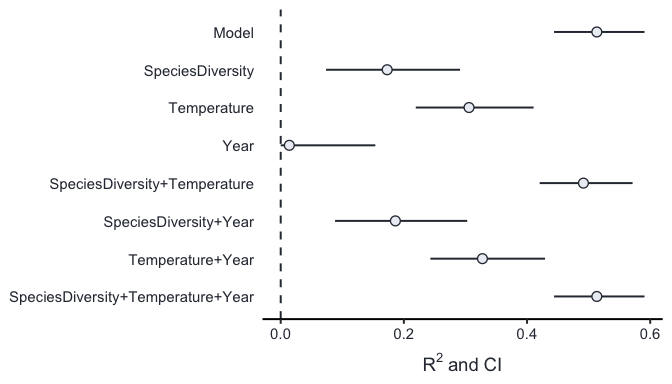
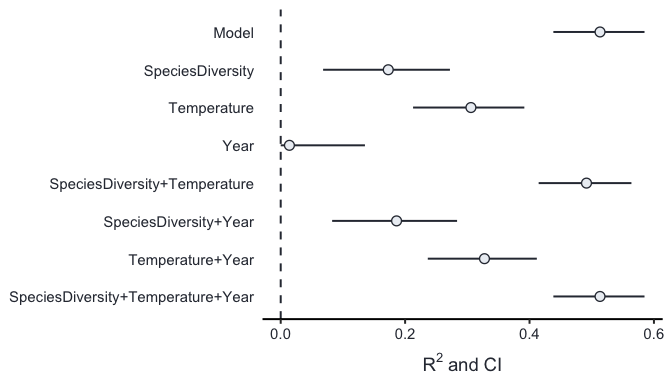
update README

diff --git a/README.md b/README.md
@@ -2,7 +2,7 @@
 <!-- badges: start -->
 
 [![CRAN total
-downloads](http://cranlogs.r-pkg.org/badges/grand-total/partR2?color=blue)](https://cran.r-project.org/package=partR2)
+downloads](https://cranlogs.r-pkg.org/badges/grand-total/partR2?color=blue)](https://cran.r-project.org/package=partR2)
 [![Monthly downloads
 badge](https://cranlogs.r-pkg.org/badges/last-month/partR2?color=blue)](https://CRAN.R-project.org/package=partR2)
 [![Lifecycle:
@@ -88,20 +88,20 @@ mod <- lmer(Biomass ~  Year + Temperature + SpeciesDiversity + (1|Population),
 #> 
 #> R2 (marginal) and 95% CI for the full model: 
 #>  R2     CI_lower CI_upper nboot ndf
-#>  0.5133 0.4439   0.5908   100   4  
+#>  0.5133 0.4383   0.5848   100   4  
 #> 
 #> ----------
 #> 
 #> Part (semi-partial) R2:
 #>  Predictor(s)                      R2     CI_lower CI_upper nboot ndf
-#>  Model                             0.5133 0.4439   0.5908   100   4  
-#>  SpeciesDiversity                  0.1729 0.0736   0.2913   100   3  
-#>  Temperature                       0.3058 0.2193   0.4106   100   3  
-#>  Year                              0.0140 0.0000   0.1537   100   3  
-#>  SpeciesDiversity+Temperature      0.4916 0.4205   0.5714   100   2  
-#>  SpeciesDiversity+Year             0.1862 0.0883   0.3029   100   2  
-#>  Temperature+Year                  0.3276 0.2430   0.4293   100   2  
-#>  SpeciesDiversity+Temperature+Year 0.5133 0.4439   0.5908   100   1
+#>  Model                             0.5133 0.4383   0.5848   100   4  
+#>  SpeciesDiversity                  0.1729 0.0682   0.2721   100   3  
+#>  Temperature                       0.3058 0.2128   0.3917   100   3  
+#>  Year                              0.0140 0.0000   0.1354   100   3  
+#>  SpeciesDiversity+Temperature      0.4916 0.4147   0.5638   100   2  
+#>  SpeciesDiversity+Year             0.1862 0.0827   0.2835   100   2  
+#>  Temperature+Year                  0.3276 0.2364   0.4117   100   2  
+#>  SpeciesDiversity+Temperature+Year 0.5133 0.4383   0.5848   100   1
 ```
 
 And to plot the results:
